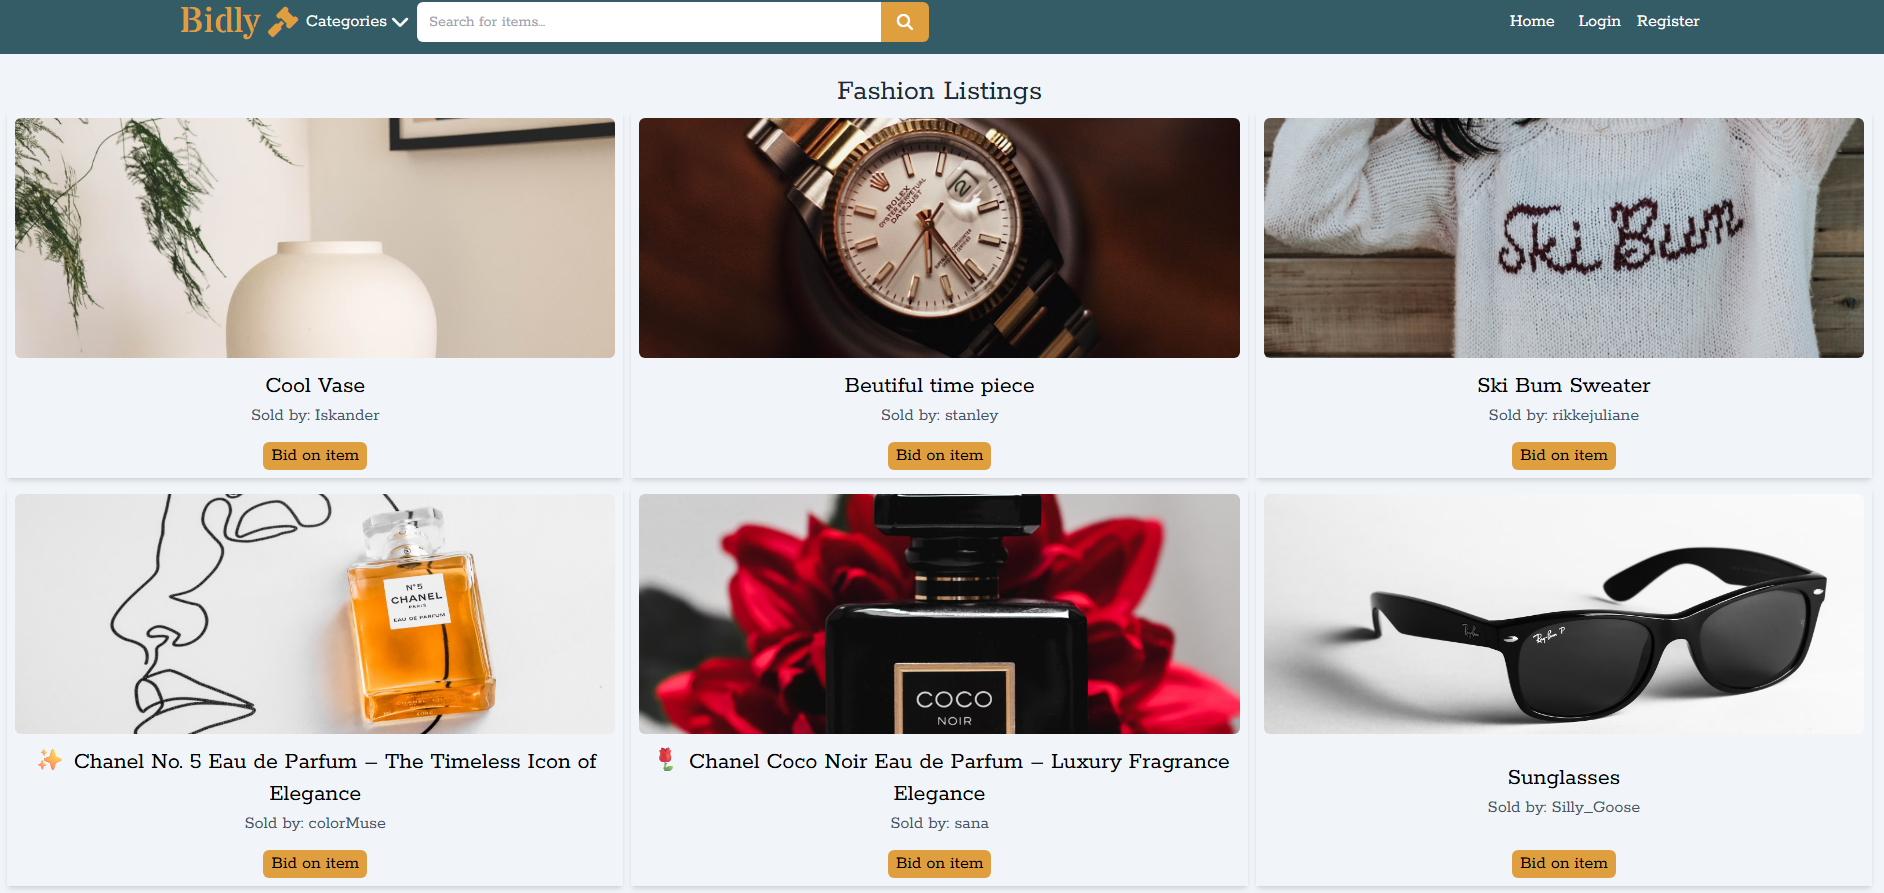
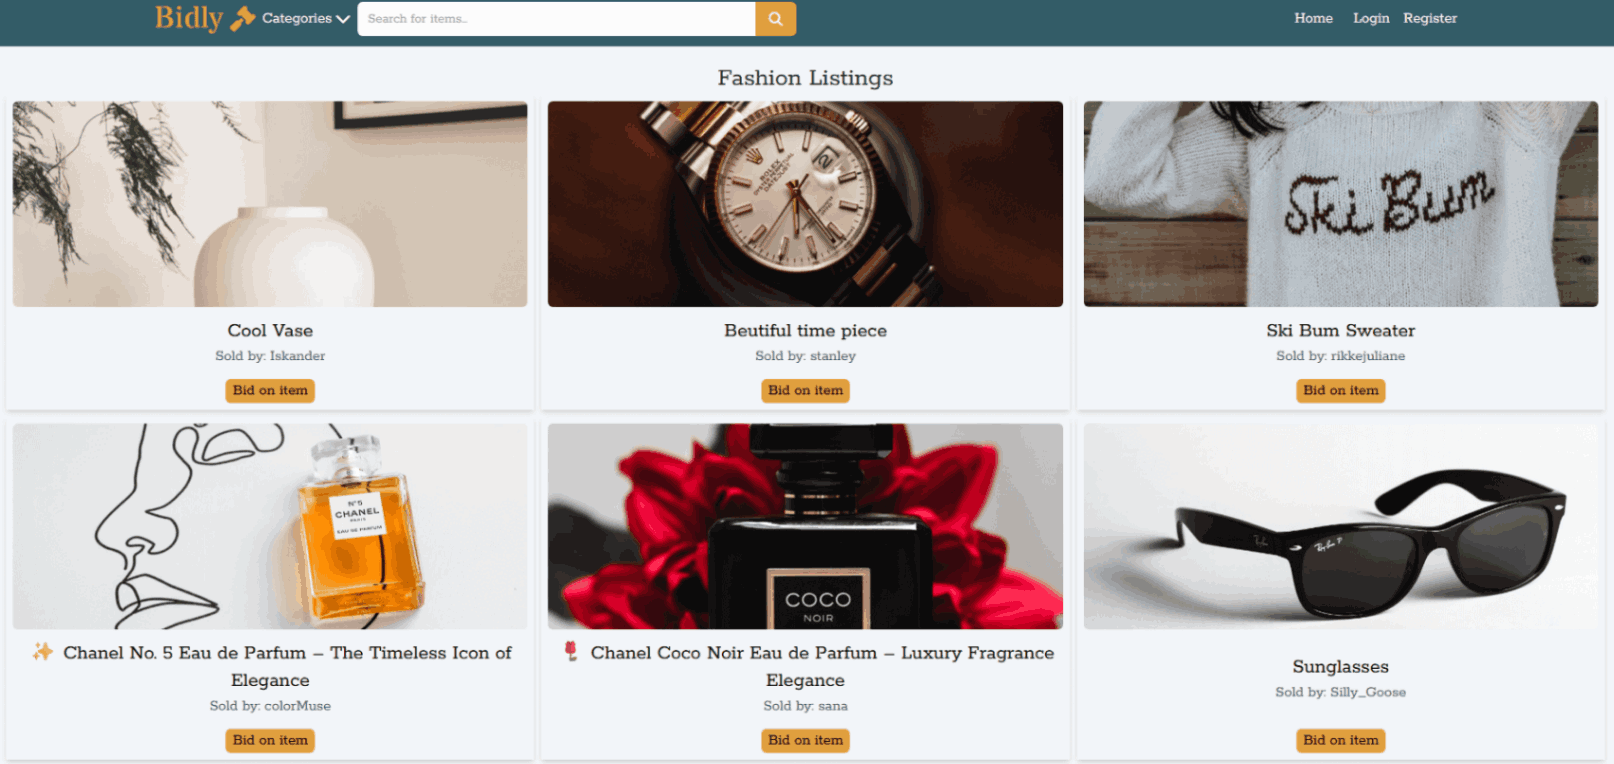
Fix picture quality on portfolio pictures under 200, not readme pictures

diff --git a/src/App.tsx b/src/App.tsx
@@ -13,6 +13,7 @@ function App() {
         <Route path="/projects" element={<ProjectsPage />} />
         <Route path="/projects/:projectId" element={<ProjectArticle />} />
         <Route path="/about" element={<AboutPage />} />
+        <Route path="*" element={<h1>404 Not Found</h1>} />
       </Route>
     </Routes>
   );
